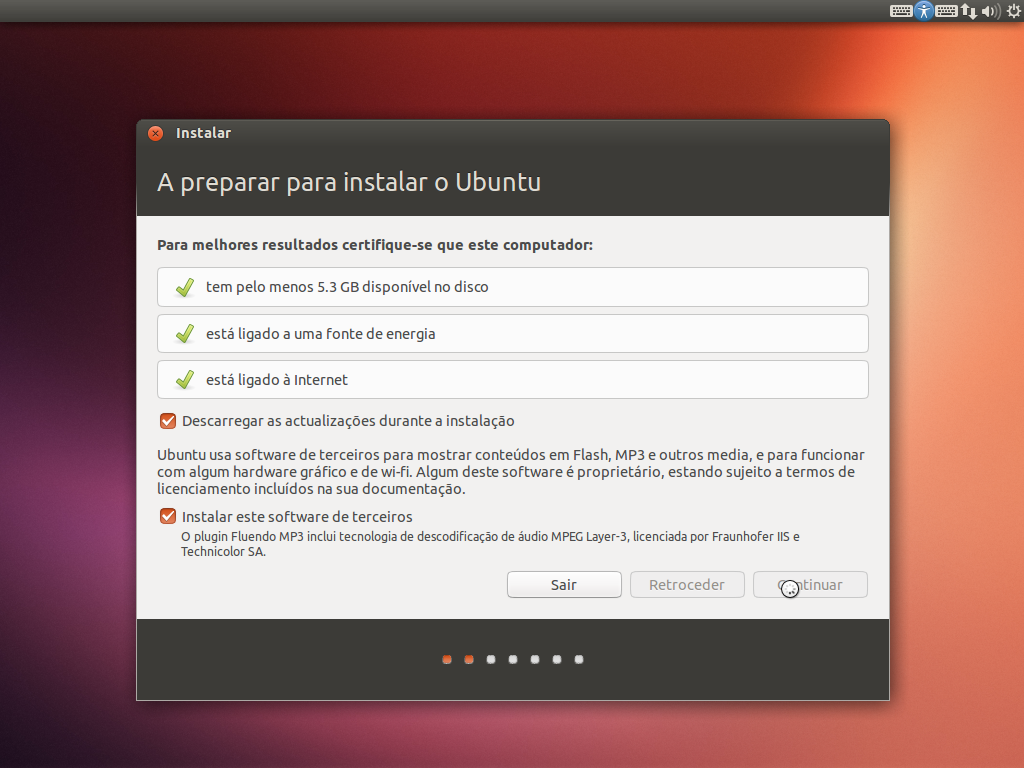
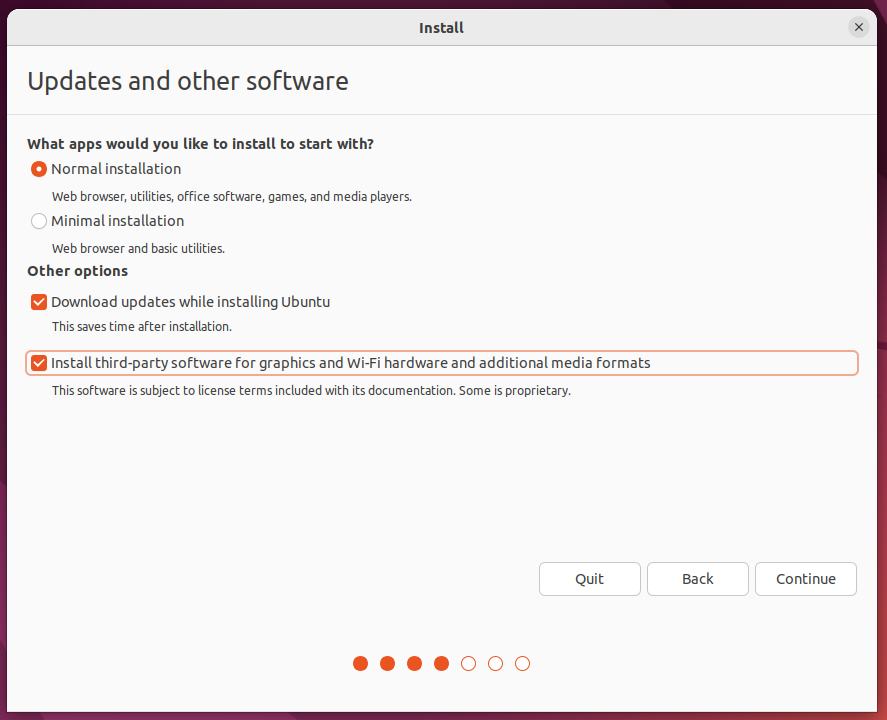
Reworked the ubuntu install guide

diff --git a/content/tutorials/2013-09-21-ubuntu-tutorial/index.md b/content/tutorials/2013-09-21-ubuntu-tutorial/index.md
@@ -4,7 +4,7 @@ title: "Instalação Ubuntu"
 thumbnail: 'thumbnails/orange_tux.svg'
 date: 2013-09-21
 updated: 2017-09-10
-description: "Como instalar Ubuntu (versão 16.04 LTS) em dual boot passo a passo."
+description: "Como instalar Ubuntu (versão 22.04 LTS) em dual boot passo a passo."
 tags: []
 tutorial : true
 comments: false
@@ -12,24 +12,35 @@ author: "Leandro Ricardo"
 ---
 
 <!--TODO: make adequate warning-->
->Este guia está otimizado para a versão 16.04 LTS. Algumas imagens podem diferir ligeiramente em futuras versões.
->
->É altamente recomendado a fazer uma cópia de segurança dos seus ficheiros. Se não pretende optar por dual-boot ou está pouco à vontade, considere utilizar uma máquina virtual.
+{{<callout type="warning">}}
+Este guia está feito para a versão 22.04 LTS. 
+Algumas imagens podem diferir ligeiramente em versões futuras do Ubuntu, ainda que o processo em si pouco mude.
+{{</callout>}}
+
+{{<callout type="warning">}}
+Quando instalar em hardware real, **faça um backup integral do disco**.
+Ainda que o processo seja seguro, erros podem acontecer.
+{{</callout>}}
 
 ## Pré-requisitos
 1. Ter um meio de instalação (DVD ou USB);
-2. Ter uma ligação à Internet (por cabo se possível);
-3. Em caso de desejar dual boot é obrigatório o particionamento do disco;
+2. Ter uma ligação à Internet (preferencialmente por cabo);
+<!--3. Em caso de desejar dual boot é obrigatório o particionamento prévio do disco;-->
 
->Multi-boot / Dual-boot: Esquema que permite um computador executar dois (dual) ou mais (multi) sistemas operativos, quando este é ligado.
+{{<callout type="info">}}
+Multi-boot / Dual-boot: Esquema que permite a um computador entrar em dois (dual) ou mais (multi) sistemas operativos quando é ligado.
+{{</callout>}}
 
-### Criando um espaço vazio com o gestor de partições do Windows 
+### Criação um espaço vazio com o gestor de partições do Windows 
 
-O desejo da maior parte dos utilizadores é não perder os dados da instalação já existente do Windows. De maneira a eliminar possíveis erros iremos criar um espaço vazio com o “Gestor de discos do Windows” e criar as partições no “Instalador do Ubuntu”.
+O desejo da maior parte dos utilizadores é não perder os dados da instalação já existente do Windows. De maneira a eliminar possíveis erros iremos criar um espaço vazio com o "Gestor de discos do Windows" e criar as partições no "Instalador do Ubuntu".
 
->Pode fazer a mesma coisa com o instalador do Ubuntu, mas qualquer erro de particionamento poderia dar origem à perda de dados. Este método é menos falível nesse sentido.
+{{<callout type="warn">}}
+Pode fazer a mesma coisa com o instalador do Ubuntu, mas qualquer erro de particionamento poderia dar origem à perda de dados. 
+Este método é menos falível nesse sentido.
+{{</callout>}}
 
-No Windows o “Gestor de partições do Windows” permite gerir partições do disco rígido.
+No Windows o "Gestor de partições do Windows" permite gerir partições do disco rígido.
 
 Este método é mais seguro para os principiantes porque conseguem à partida, separar um espaço que é independente da instalação do Windows (e portanto sem riscos).
 
@@ -41,24 +52,28 @@ Escreva diskmgmt.msc e confirmar clicando no botão OK.
 
 ![](img/disk_1.png)
 
-Com o botão direito do rato selecione uma partição com espaço (tipicamente, poderá selecionar a partição c:\ ou  caso tenha uma segunda partição d:\) e selecione "reduzir".
+Com o botão direito do rato selecione uma disco com espaço (tipicamente, poderá selecionar a eedisco C:\ ou  caso tenha uma segunda disco D:\) e selecione "reduzir".
 
 ![](img/disk_2.png)
 
->### Cálculo do valor a reduzir
->+ / : >25GB, onde o sistema e programas estarão localizados
->+ /swap : 4GB ou se pretender hibernação reserve o mesmo tamanho da RAM
->+ /home : tamanho à discrição, equivalente à pasta pessoal no windows
->
->Total a reduzir: Sistema + swap + home
+{{<callout type="info">}}
+### Cálculo do valor a reduzir
++ / : >60GB, onde o sistema e programas estarão localizados
++ /swap : 4GB ou, se pretender hibernação, reserve o mesmo tamanho da RAM
+<!--+ /home : tamanho à discrição, equivalente à pasta pessoal no windows-->
+
+Total a reduzir: Sistema + swap
+{{</callout>}}
 
 Escreva o valor que deseja em Megabytes(conversão de GB para MB, multiplique o número de GB por 1024) e confirme clicando no botão reduzir.
 
->Se a partição utilizada estiver fragmentada poderá acontecer o seguinte erro:
->![](img/disk_3.png)
->Nesse caso deverá desfragmentar o disco (com a ferramenta do Windows ou com outra – como o Piriform Defraggler)
+{{<callout type="warn">}}
+Se a partição utilizada estiver fragmentada poderá acontecer o seguinte erro:
+![](img/disk_3.png)
+Nesse caso, deverá desfragmentar o disco (com a ferramenta do Windows ou com outra – como o Piriform Defraggler)
+{{</callout>}}
 
-Aguarde e depois disso, o espaço em branco foi criado com sucesso!
+Aguarde e, depois disso, o espaço não alocado foi criado com sucesso!
 
 De seguida, iremos introduzir a média de instalação.
 
@@ -67,44 +82,58 @@ No Windows fazer a combinação de teclas Windows+R.
 Escreva POWERCFG.CPL e confirmar clicando no botão OK.
 ![](img/1.png)
 
-Selecione “Escolher o que fazem os botões para ligar/desligar”.
+Selecione "Escolher o que fazem os botões para ligar/desligar".
 ![](img/2.png)
 
-Selecione “Alterar definições que estão atualmente indisponíveis”
+Selecione "Alterar definições que estão atualmente indisponíveis"
 ![](img/3.png)
 
-Desmarque a opção “Ativar o arranque rápido”.
+Desmarque a opção "Ativar o arranque rápido".
 ![](img/4.png)
 
 Reinicie o computador e entre na BIOS / firmware UEFI.
 
->Se não sabe entrar na BIOS, [leia este artigo][read].
->
->Em grande parte dos computadores, existe um popup (BBS Popup) que permite mudar a opção de arranque naquela instância. Por exemplo, no caso da Asus essa tecla é o ESC.
+{{<callout type="info">}}
+Se não sabe entrar na BIOS, tente combinações das teclas `F2`, `F8`, `F10` e `Esc`
+
+Em grande parte dos computadores, existe um popup (BBS Popup) que permite mudar a opção de arranque neste arranque. Por exemplo, no caso da Asus essa tecla é o ESC.
+{{</callout>}}
 
 ### Configurações adicionais para UEFI
->Se o computador for de 2013, ou mais recente, ou se vinha com o windows 8, ou superior, então tem provávelmente UEFI. Se não tem UEFI, salte para o próximo passo. 
+
+{{<callout type="info">}}
+Se o computador for de 2013 ou mais recente, ou se vinha com o windows 8 ou superior, então tem provavelmente UEFI. Se não tem UEFI, salte para o próximo passo. 
+{{</callout>}}
 
 Nos últimos anos, um novo sistema de arranque (UEFI) substituiu o antigo (MBR). É necessário ter precauções adicionais se o seu computador tem UEFI.
 
-Para instalar a distribuição Ubuntu num sistema UEFI é recomendado a prestar atenção aos seguintes aspetos (se não estiver presente qualquer um deles, ignore):
-1.  Desative na BIOS a opção “Fast Boot” (geralmente na aba “Boot”);
-2.  Ative a opção “USB Legacy Emulation” (geralmente na aba “Advanced”);
-3.  Desative a opção “Secure Boot” (geralmente na aba “Security”);
+Em sistemas UEFI, desative na BIOS a opção "Fast Boot" (geralmente na aba "Boot").
+
+{{<callout type="info">}}
+A maioria das distribuições de Linux não assinam o kernel nem drivers, o que impede sistemas com **Secure Boot** de ligar.
+
+O Ubuntu **não tem** este problema.
+{{</callout>}}
 
 ### Mudar a ordem de arranque
-Mude a ordem de arranque (geralmente na aba "Boot")
+Mude a ordem de arranque (geralmente na aba "Boot") de modo a que o disco/pen estejam em primeiro lugar.
+
 No fim, não se esqueça de guardar as alterações ("Exit Saving Changes", na aba "Exit").
 
 ## Instalação
 Logo depois, o programa de instalação surge (normalmente em inglês). Escolha a linguagem que pretende.
+
+Em seguida, clique em "Install Ubuntu".
+
 ![](img/install_1.png)
 
-Clique nas duas opções (marcadas a laranja na imagem).
-> Se estiver a instalar o sistema na universidade, deixe a primeira opção desmarcada.
+Depois, selecione o seu teclado. Tipicamente será "Portuguese Portuguese", e depois "Continue".
+![](img/install_kb.png)
+
+Escolha o tipo de instalação e clique nas duas opções na secção "Other options".
 ![](img/install_2.png)
 
-Quanto ao tipo de instalação, escolha a opção “Mais alguma coisa…”
+Quanto ao tipo de instalação, escolha a opção "Something else".
 ![](img/part_0.png)
 
 ### Criação de partições
@@ -112,43 +141,61 @@ De seguida poderá ter uma configuração mais ou menos semelhante com esta. O i
 Este ecrã mostra o espaço livre criado anteriormente no Windows.
 ![](img/part_1.png)
 
-Para cada ponto de montagem (/, /swap e /home), clique no botão +, com seleção no espaço livre e preencha os seguintes dados e selecione “OK”:
+Para cada ponto de montagem (/ e /swap), clique no botão +, com seleção no espaço livre e preencha os seguintes dados e selecione "OK":
 + Tamanho: deverá inserir o tamanho determinado em [Cálculo do espaço a reduzir](#passos-para-a-criação-de-um-espaço-não-alocado); Note que neste caso, o utilizador optou por utilizar apenas 20GB.
 + Tipo de nova partição: irrelevante para este caso de aprendizagem.
-+ Localização para a nova partição: “Início deste espaço”.
-+ Utilizar como: “Sistema de ficheiros Ext4 com journal”, no caso da partição / e /home, ou “Área de swap”, no caso da partição /swap.
-+ Mount point: / ou /home ou /swap.
++ Localização para a nova partição: "Início deste espaço".
++ Utilizar como: "Sistema de ficheiros Ext4 com journal", no caso da partição `/`, ou "Área de swap", no caso da partição `/swap`.
++ Mount point: `/` ou `/swap`.
 ![](img/part_2.png)
 
->Nota de extrema importância: Restrinja-se a fazer especificamente o que manda o tutorial.
->
->Como pode verificar, no dispositivo /dev/sda2 encontra-se partição de EFI. Não apague ou modifique essa partição, sob o risco de ficar sem arranque doutro sistema operativo que já esteja instalado no seu computador.
->
->A manipulação das outras partições podem incorrer em perdas de dados.
+{{< callout type="error" >}}
+É **muito importante** que não faça nada fora do espaço livre, dado que isso pode causar perda de dados.
+{{< /callout >}}
 
-Comece a instalação, clicando no botão “Instalar agora”. Deverá agora configurar, as várias definições.
+Comece a instalação, clicando no botão "Install now".
 
 ### Processo de instalação
-Esta parte é mais fácil: após selecionar o botao “Instalar agora”, o setup irá configurar proceder à instalação. Ao mesmo tempo, é pedido ao utilizador que defina várias definições: teclado, fuso horário e fuso horário.
+Esta parte é mais fácil, o setup irá configurar o sistema e proceder à instalação.
 
 Selecione o fuso horário.
 ![](img/install_3.png)
 
-E o esquema do teclado.
-![](img/install_4.png)
-
 Configure o nome de utilizador e a palavra-passe:
 ![](img/install_5.png)
 
-Por fim, deverá aguardar a conclusão do setup.
+Por fim, deverá aguardar esta mensagem, marcando a conclusão da instalação.
 ![](img/install_6.png)
 
+### Pós instalação
 
+Neste ponto, o sistema está pronto a ser utilizado!
+
+Após terminar o setup, basta desligar o computador, remover o disco/pen e reiniciar.
+
+Ao reiniciar, uma aplicação de boas vindas é iniciada,basta clicar em "Next" e ir respondendo a gosto aos pedidos.
+
+No final, convém baixar, ler e executar o nosso script de pós instalação.
+
+```sh
+# baixar o script
+wget https://glua.ua.pt/lip/install.sh
+
+# ler o script
+less install.sh
+
+# rodar o script
+bash install.sh
+```
+
+Este script atualiza o computador, baixa alguns pacotes essenciais, pode instalar drivers da nvidia, mudar a ordem do grub, entre outros.
+Leia com cuidado o que lhe pede e, tendo as escolhas tomadas, aguarde o fim da execução.
 
 ## Resolução de problemas 
 ### Hora muda quando se muda entre Windows e Linux
 #### Para Windows 7, 8 e 10
 Copie e execute como administrador na PowerShell do Windows (ou na Linha de Comando do Windows) a seguinte linha
+
 ~~~powerhell
 reg add "HKEY_LOCAL_MACHINE\System\CurrentControlSet\Control\TimeZoneInformation" /v RealTimeIsUniversal /d 1 /t REG_DWORD /f
 ~~~

diff --git a/content/tutorials/2013-04-08-eduroam-tutorial/index.md b/content/tutorials/2013-04-08-eduroam-tutorial/index.md
@@ -16,15 +16,16 @@ Neste tutorial pode encontrar informações de como configurar a rede eduroam na
 
 ## Certificados
 
-Para poder conectar-se a rede **eduroam** vai ser preciso indicar um certificado de autentificação, cujo o seu destino e ficheiro pode diferir para as diferentes distribuições GNU/LINUX. Assim sendo pode confirmar na seguinte tabela qual é o caminho e ficheiro para as diferentes distribuições:
+Para poder conectar-se à rede **eduroam**, vai ser preciso indicar um certificado de autenticação, cujo destino e ficheiro difere entre distribuições GNU/LINUX. 
+Assim sendo, pode confirmar na seguinte tabela qual é o caminho e ficheiro para as diferentes distribuições:
 
 Para poder conectar-se à rede **eduroam** é necessário indicar um certificado de autentificação, cuja a sua localização difere para as diferentes distribuições GNU/LINUX. Assim sendo, pode confirmar na seguinte tabela qual é o caminho do ficheiro para as diferentes distribuições.
 
 |            Distribuição             |                  Ficheiro a selecionar                   |
 |:-----------------------------------:|:--------------------------------------------------------:|
-| **Debian/Ubuntu/Gentoo/Arch Linux** | **CA Certificate**: _/etc/ssl/certs/ca-certificates.crt_ |
-| **Fedora/RHEL**                     | **CA Certificate**: _/etc/pki/tls/certs/ca-bundle.crt_   |
-| **openSUSE/SLE**                    | **CA Certificate**: _/etc/ssl/ca-bundle.pem_             |
+| **Debian/Ubuntu/Gentoo/Arch Linux** | /etc/ssl/certs/ca-certificates.crt |
+| **Fedora/RHEL**                     | /etc/pki/tls/certs/ca-bundle.crt   |
+| **openSUSE/SLE**                    | /etc/ssl/ca-bundle.pem             |
 
 
 ________________________________
@@ -33,7 +34,7 @@ ________________________________
 
 ## Unity
 
-No canto superior direito deve selecionar o ícone de rede ![ubuntuInternetIcon](unity-1.png)
+No canto superior direito deve selecionar o ícon de rede ![ubuntuInternetIcon](unity-1.png)
 De seguida preencher os campos com os seguintes dados:
 
 Campo                   |Valor
@@ -59,10 +60,10 @@ ________________________________
 
 ## Gnome3
 
-No canto superior direito, como no [Unity](#unity), deve selecionar o ícone de rede 
+No canto superior direito, como no [Unity](#unity), deve selecionar o ícon de rede 
 ![gnomeInternetIcon](img/gnome3-1.png)
 
-Após selecionar a rede **eduroam** deverá preencher os dados como na secção do [Unity](#unity).
+Após selecionar a rede **eduroam**, deverá preencher os dados como na secção do [Unity](#unity).
 
 ![gnomeInternetMenu](img/gnome3-2.png)
 
@@ -74,14 +75,14 @@ ________________________________
 
 ## KDE
 
-No canto inferior direito selecionar o ícone de rede. 
+No canto inferior direito selecionar o ícon de rede. 
 ![kdeInternetIcon](img/kde-1.png)
 
-Após selecionar a rede **eduroam** deverá preencher os dados como nas secções anteriores. (ex: [Unity](#unity))
+Após selecionar a rede **eduroam**, deverá preencher os dados como nas secções anteriores. (ex: [Unity](#unity))
 
 ![kdeInternetMenu](img/kde-2.png)
 
-Despois de confirmar os dados inseridos os dados serão validados e terá a conexão com a rede **eduroam**.
+Despois de confirmar os dados inseridos, estes serão validados e terá a conexão com a rede **eduroam**.
 
 ![kdeInternetLoad](img/kde-3.png)
 
@@ -125,22 +126,22 @@ ca_cert="SUBSTITUIR"
 sudo pkill wpa_supplicant && sudo wpa_supplicant -i wlan0 -c /home/$USERNAME/eduroam.conf
 ```
 
-4 - Por fim será necessário fazer um pedido ao servidor de DHCP também como súper-utilizador(___root___). Para tal, abrir outra consola e escrever:
+4 - Por fim, será necessário fazer um pedido ao servidor de DHCP, também como súper-utilizador(___root___). Para tal, é preciso abrir outra consola e escrever:
 
 ```bash
 sudo dhclient wlan0
 ```
 
-Foi usado o cliente de DHCP dhclient (típico de Debian/Ubuntu/Fedora), mas poderia ser usado qualquer outro à escolha, por exemplo, o dhcpcd (típico de ArchLinux/Gentoo).
+Foi usado o cliente de DHCP `dhclient` (típico de Debian/Ubuntu/Fedora), mas poderia ser usado qualquer outro à escolha, por exemplo, o `dhcpcd` (típico de ArchLinux/Gentoo).
 
->Caso tenha problemas de "_disconnects_", ou problemas de obter um endereço IP, na distribuição ArchLinux adicione a seguinte linha na secção _main_ do ficheiro _NetoworkManager.conf_ que se encontra em */etc/NetoworkManager/NetoworkManager.conf*
+>Caso tenha problemas de "_disconnects_", ou problemas em obter um endereço IP, na distribuição Arch Linux, adicione a seguinte linha na secção _main_ do ficheiro _NetoworkManager.conf_ que se encontra em */etc/NetoworkManager/NetoworkManager.conf*
 ```bash
 DHCP = dhclient
 ```
 
->caso não se deseje abrir outra consola, pode-se executar o _wpa_supplicant_ em segundo plano usando:
+>caso não queira abrir outra consola, pode-se executar o _wpa_supplicant_ em segundo plano usando:
 ~~~bash
 sudo wpa_supplicant -i wlan0 -c/home/$USERNAME/eduroam.conf -B
 ~~~
 
-Pronto, tem a sua distribuição configurada!
+Pronto, tem acesso à rede eduroam!
